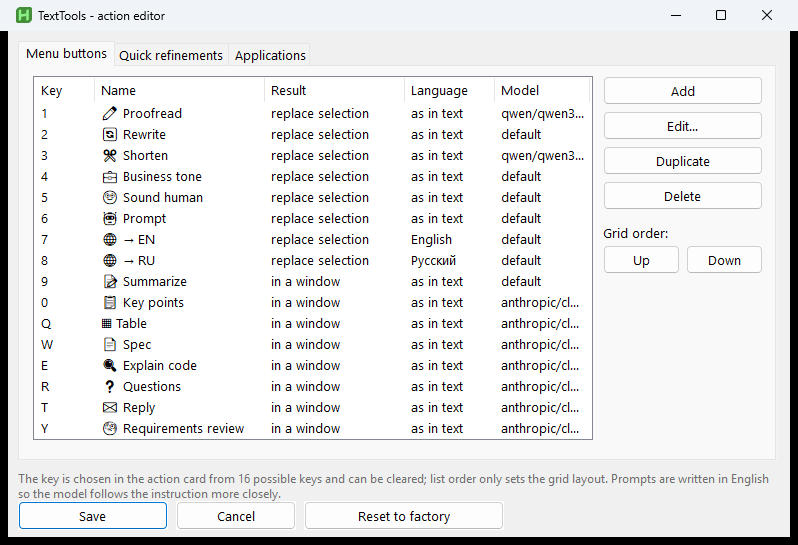
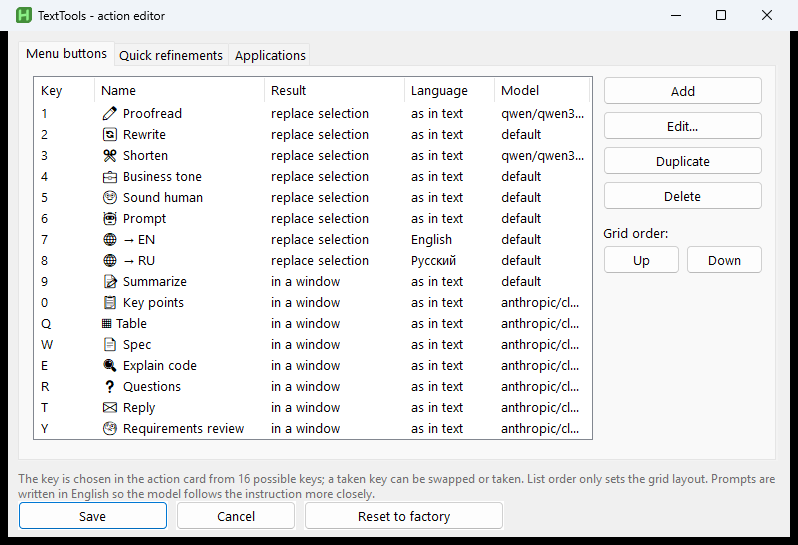
Let the action editor swap or take a key that is already assigned.

Changed region(s): [[0.0301, 0.8734, 0.9624, 0.9358]]

diff --git a/docs/index.html b/docs/index.html
@@ -45,9 +45,9 @@
             "name": "TextTools",
             "applicationCategory": "UtilitiesApplication",
             "operatingSystem": "Windows 10, Windows 11",
-            "softwareVersion": "0.2.2",
+            "softwareVersion": "0.2.3",
             "url": "https://belyaevad.github.io/TextTools/",
-            "downloadUrl": "https://github.com/BelyaevAD/TextTools/releases/tag/v0.2.2",
+            "downloadUrl": "https://github.com/BelyaevAD/TextTools/releases/tag/v0.2.3",
             "installUrl": "https://github.com/BelyaevAD/TextTools",
             "description": "Скрипт AutoHotkey v2: выделение текста в любом окне Windows, хоткей и действия через OpenAI-совместимый API.",
             "license": "https://github.com/BelyaevAD/TextTools/blob/main/LICENSE",
@@ -56,7 +56,8 @@
               "https://belyaevad.github.io/TextTools/assets/screenshots/ru/01-action-menu.png",
               "https://belyaevad.github.io/TextTools/assets/screenshots/ru/02-settings-api.png",
               "https://belyaevad.github.io/TextTools/assets/screenshots/ru/04-actions-editor.png",
-              "https://belyaevad.github.io/TextTools/assets/screenshots/ru/05-prompt-editor.png"
+              "https://belyaevad.github.io/TextTools/assets/screenshots/ru/05-prompt-editor.png",
+              "https://belyaevad.github.io/TextTools/assets/screenshots/ru/07-key-conflict.png"
             ],
             "offers": {
               "@type": "Offer",
@@ -126,7 +127,7 @@
             <h1>TextTools</h1>
             <p class="hero-lead">Выдели текст в любом приложении, нажми хоткей — появится сетка действий. Вычитка, переписывание, краткое изложение, таблица, разбор кода и остальное. Результат либо встанет вместо выделения, либо откроется в отдельном окне.</p>
             <div class="hero-actions">
-              <a class="button" href="https://github.com/BelyaevAD/TextTools/releases/tag/v0.2.2" target="_blank" rel="noopener noreferrer">Скачать v0.2.2</a>
+              <a class="button" href="https://github.com/BelyaevAD/TextTools/releases/tag/v0.2.3" target="_blank" rel="noopener noreferrer">Скачать v0.2.3</a>
               <a class="button secondary" href="https://github.com/BelyaevAD/TextTools/blob/main/docs/USER_GUIDE.md" target="_blank" rel="noopener noreferrer">Документация</a>
             </div>
             <div class="hero-meta" aria-label="Кратко">
@@ -215,6 +216,12 @@
                 <img src="assets/screenshots/ru/06-result-window.png" width="818" height="634" alt="Окно результата TextTools" loading="lazy">
               </a>
               <figcaption><strong>Результат</strong><span>Markdown, чипы уточнения и вставка обратно в исходное окно</span></figcaption>
+            </figure>
+            <figure class="shot-card">
+              <a href="assets/screenshots/ru/07-key-conflict.png" target="_blank" rel="noopener">
+                <img src="assets/screenshots/ru/07-key-conflict.png" width="480" height="220" alt="Конфликт клавиши действия TextTools" loading="lazy">
+              </a>
+              <figcaption><strong>Клавиша занята</strong><span>Отмена, обменять с другим действием или забрать себе</span></figcaption>
             </figure>
           </div>
         </div>

diff --git a/docs/en/index.html b/docs/en/index.html
@@ -45,9 +45,9 @@
             "name": "TextTools",
             "applicationCategory": "UtilitiesApplication",
             "operatingSystem": "Windows 10, Windows 11",
-            "softwareVersion": "0.2.2",
+            "softwareVersion": "0.2.3",
             "url": "https://belyaevad.github.io/TextTools/en/",
-            "downloadUrl": "https://github.com/BelyaevAD/TextTools/releases/tag/v0.2.2",
+            "downloadUrl": "https://github.com/BelyaevAD/TextTools/releases/tag/v0.2.3",
             "description": "AutoHotkey v2 script: select text in any Windows window, hotkey, OpenAI-compatible API actions.",
             "license": "https://github.com/BelyaevAD/TextTools/blob/main/LICENSE",
             "isAccessibleForFree": true,
@@ -55,7 +55,8 @@
               "https://belyaevad.github.io/TextTools/assets/screenshots/en/01-action-menu.png",
               "https://belyaevad.github.io/TextTools/assets/screenshots/en/02-settings-api.png",
               "https://belyaevad.github.io/TextTools/assets/screenshots/en/04-actions-editor.png",
-              "https://belyaevad.github.io/TextTools/assets/screenshots/en/05-prompt-editor.png"
+              "https://belyaevad.github.io/TextTools/assets/screenshots/en/05-prompt-editor.png",
+              "https://belyaevad.github.io/TextTools/assets/screenshots/en/07-key-conflict.png"
             ],
             "offers": {
               "@type": "Offer",
@@ -114,7 +115,7 @@
             <h1>TextTools</h1>
             <p class="hero-lead">Select text in any app, hit the hotkey, pick what you want done. Proofreading, rewriting, summaries, tables, explaining code — that sort of thing. The result replaces the selection, or opens in its own window.</p>
             <div class="hero-actions">
-              <a class="button" href="https://github.com/BelyaevAD/TextTools/releases/tag/v0.2.2" target="_blank" rel="noopener noreferrer">Download v0.2.2</a>
+              <a class="button" href="https://github.com/BelyaevAD/TextTools/releases/tag/v0.2.3" target="_blank" rel="noopener noreferrer">Download v0.2.3</a>
               <a class="button secondary" href="https://github.com/BelyaevAD/TextTools/blob/main/docs/USER_GUIDE.md" target="_blank" rel="noopener noreferrer">Docs</a>
             </div>
             <div class="hero-meta" aria-label="Basics">
@@ -203,6 +204,12 @@
                 <img src="../assets/screenshots/en/06-result-window.png" width="818" height="634" alt="TextTools result window" loading="lazy">
               </a>
               <figcaption><strong>Result</strong><span>Markdown, refine chips, paste back into the source window</span></figcaption>
+            </figure>
+            <figure class="shot-card">
+              <a href="../assets/screenshots/en/07-key-conflict.png" target="_blank" rel="noopener">
+                <img src="../assets/screenshots/en/07-key-conflict.png" width="480" height="220" alt="TextTools taken-key dialog" loading="lazy">
+              </a>
+              <figcaption><strong>Key already used</strong><span>Cancel, swap with the other action, or take the key</span></figcaption>
             </figure>
           </div>
         </div>

diff --git a/README.md b/README.md
@@ -24,13 +24,17 @@
 |---|---|
 | ![Настройки UI](docs/assets/screenshots/ru/03-settings-ui.png) | ![Результат](docs/assets/screenshots/ru/06-result-window.png) |
 
+| Клавиша занята |
+|---|
+| ![Конфликт клавиши](docs/assets/screenshots/ru/07-key-conflict.png) |
+
 HTTP к API идёт через системный `curl.exe` — так стабильнее, чем COM/WinHTTP внутри процесса AHK.
 
 ## Что умеет
 
 - Сетка действий с горячими клавишами и полем для своей инструкции
 - Повтор последнего действия (`Ctrl+Shift+Space` по умолчанию)
-- Редактор кнопок и промптов, профили «откуда текст»
+- Редактор кнопок и промптов, профили «откуда текст»; занятую клавишу действия можно **обменять** или **забрать**
 - Любой OpenAI-совместимый endpoint (OpenRouter, OpenAI, прокси Anthropic, локальный Ollama…)
 - Опциональный HTTP/HTTPS/SOCKS-прокси (галочка на вкладке API; `http://user:pass@host:port` или `socks5h://…`)
 - Модель по умолчанию и отдельно на действие

diff --git a/README.en.md b/README.en.md
@@ -24,13 +24,17 @@ A small AutoHotkey v2 script. Select text in any Windows window, hit a hotkey, a
 |---|---|
 | ![UI settings](docs/assets/screenshots/en/03-settings-ui.png) | ![Result window](docs/assets/screenshots/en/06-result-window.png) |
 
+| Key already used |
+|---|
+| ![Taken key](docs/assets/screenshots/en/07-key-conflict.png) |
+
 HTTP goes through system `curl.exe` — more stable than COM/WinHTTP inside the AHK process for this.
 
 ## What it does
 
 - Action grid with key accelerators and a free-form instruction field
 - Repeat last action (`Ctrl+Shift+Space` by default)
-- Button/prompt editor and “where this text came from” profiles
+- Button/prompt editor and “where this text came from” profiles; a taken action key can be **swapped** or **taken**
 - Any OpenAI-compatible endpoint (OpenRouter, OpenAI, Anthropic proxies, local Ollama…)
 - Optional HTTP/HTTPS/SOCKS proxy (checkbox on the API tab; `http://user:pass@host:port` or `socks5h://…`)
 - Default model plus per-action override

diff --git a/docs/USER_GUIDE.md b/docs/USER_GUIDE.md
@@ -33,7 +33,7 @@ To retarget factory action models after changing provider: Settings → API → 
 - Click a button or press its accelerator (`1`–`9`, `0`, `Q`…`Y`)
 - Type a free-form instruction in the field (modifies any button, or runs alone)
 - **Shift** + action → show the result window instead of pasting (handy when the selection isn’t editable)
-- Tray → **Action editor** → buttons, prompts, apps, refine chips
+- Tray → **Action editor** → buttons, prompts, apps, refine chips. If you pick a key another action already uses, choose **Cancel**, **Swap** (exchange keys) or **Take** (this action gets it, the other is left without a key).
 
 ## Providers
 

diff --git a/CHANGELOG.md b/CHANGELOG.md
@@ -1,5 +1,9 @@
 # Changelog
 
+## v0.2.3 — 2026-08-23
+
+If a menu key is already taken, the action card offers **Cancel / Swap / Take** instead of a dead-end warning. Swap exchanges the two accelerators; Take assigns the key here and leaves the other action without one.
+
 ## v0.2.2 — 2026-08-16
 
 Proxy field is gated by a checkbox; API/UI hint text no longer overlaps neighbouring labels.
